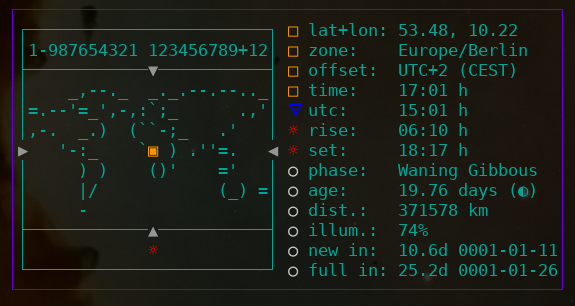
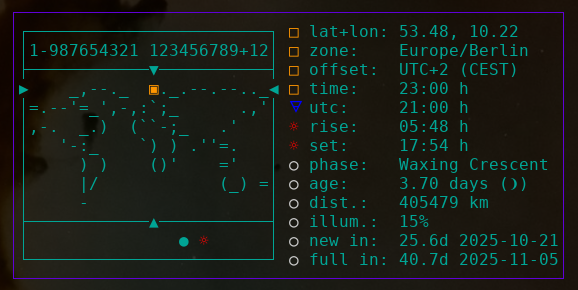
Finish MVP.

diff --git a/pkg/geoview/main.go b/pkg/geoview/main.go
@@ -28,11 +28,11 @@ const (
 )
 
 type GeoData struct {
-	world geomap.World
 	time  time.Time
+	world geomap.World
 }
 
-func Toast() string {
+func Toast() string { // TODO: remove later.
 	return "Toast!"
 }
 
@@ -68,13 +68,14 @@ func concatenateHorizontally(str1, str2 string) string {
 }
 
 func (gd *GeoData) UpdateData() {
-	// TODO: implement.
-	gd.world = geomap.NewWorld()
-	gd.world.Lat = 0.0
-	gd.world.Lon = 0.0
-	gd.world.MoonLon = 0.0
-	gd.world.SunLon = 0.0
 	gd.time = time.Now()
+	gd.world = geomap.NewWorld()
+	geocalc.WebBufUpdate()
+	lat, lon := geocalc.WebBufCoords()
+	gd.world.Lat = lat
+	gd.world.Lon = lon
+	gd.world.MoonLon = geocalc.MoonLon(gd.time)
+	gd.world.SunLon = geocalc.SunLon(gd.time)
 }
 
 func (gd *GeoData) PrintDataVertically() string {
@@ -124,6 +125,7 @@ func (gd *GeoData) PrintInfo() string {
 }
 
 func (gd *GeoData) PrintDataHorizontally() string {
+	gd.UpdateData()
 	world := gd.PrintWorld()
 	info := gd.PrintInfo()
 	str := concatenateHorizontally(world, info)

diff --git a/pkg/geoweb/main.go b/pkg/geoweb/main.go
@@ -38,8 +38,12 @@ type GeoLocation struct {
 	Lon float64 `json:"longitude"`
 }
 
-func (wb *WebBuffer) GetCoords() (float64, float64) {
+func (wb *WebBuffer) Update() {
 	wb.Lat, wb.Lon, _ = complicatedWebLocalization()
+}
+
+func (wb *WebBuffer) GetCoords() (float64, float64) {
+	wb.Update() // TODO: remove this from here.
 	return wb.Lat, wb.Lon
 }
 
@@ -52,8 +56,11 @@ func bufferWebLocalization() (float64, float64, error) {
 }
 
 // complicatedWebLocalization gets user's location based on IP.
-func complicatedWebLocalization() (float64, float64, error) {
-	return 53.48, 10.22, nil // TODO: use the real thing later when buffering is implemented.
+func complicatedWebLocalization() (lat float64, lon float64, err error) {
+	// lat = -41.48
+	// lon = 120.22
+	// err = nil
+	// return lat, lon, err // TODO: use the real thing later when buffering is implemented.
 	// Use an IP geolocation API (e.g., ip-api.com)
 	resp, err := http.Get("http://ip-api.com/json/")
 	if err != nil {

diff --git a/pkg/geocalc/main.go b/pkg/geocalc/main.go
@@ -57,6 +57,14 @@ func ConvertLatAndLonToTimezone(lat, lon float64) string {
 	return tz
 }
 
+func WebBufUpdate() {
+	webBuf.Update()
+}
+
+func WebBufCoords() (float64, float64) {
+	return webBuf.GetCoords()
+}
+
 func LatAndLonAndTz() string {
 	lat, lon := webBuf.GetCoords()
 	tz := ConvertLatAndLonToTimezone(lat, lon)
@@ -134,6 +142,15 @@ func unixToDate(unixDate float64) time.Time {
 func diffInDays(date1, date2 time.Time) float64 {
 	diff := date2.Sub(date1)
 	return diff.Hours() / 24
+}
+
+func MoonLon(date time.Time) float64 {
+	phase := mp.New(date)
+	return phase.Longitude() - 180.0
+}
+
+func SunLon(date time.Time) float64 {
+	return +80.0 // TODO: implement for real.
 }
 
 func MoonPhaseVerbose(date time.Time) string {

diff --git a/README.md b/README.md
@@ -21,6 +21,10 @@ List of features
 
 List of things to do
 
+  - [ ] data in display updates on interval.
+  - [ ] provide an option for an update interval of all displayed data.
+  - [ ] buffer web retrieved lat+lon data as a text file somewhere.
+  - [ ] fix sunrise and sunset time (match the local time in the timezone).
   - [ ] refine tests and explicitly test data of
     - [ ] `▣ lat+lon: 53.48, 10.22`
     - [ ] `▣ zone:    Europe/Berlin`
@@ -39,13 +43,10 @@ List of things to do
     - [ ] `● new on:  2001-01-11, Thu`
     - [ ] `● full on: 2001-01-26, Fri`
     - [ ] `● lat+lon.`
-  - [ ] make sure every data in the display is read in automatically.
-  - [ ] data in display updates on interval.
-  - [ ] provide an option for an update interval of all displayed data.
-  - [ ] buffer web retrieved lat+lon data as a text file somewhere.
 
 List of things done
 
+  - [X] make sure every data in the display is read in automatically.
   - [X] add time zone detection.
   - [X] find out user's time zone code, eg 'GMT'.
   - [X] find out user's utc shift for his time zone.
